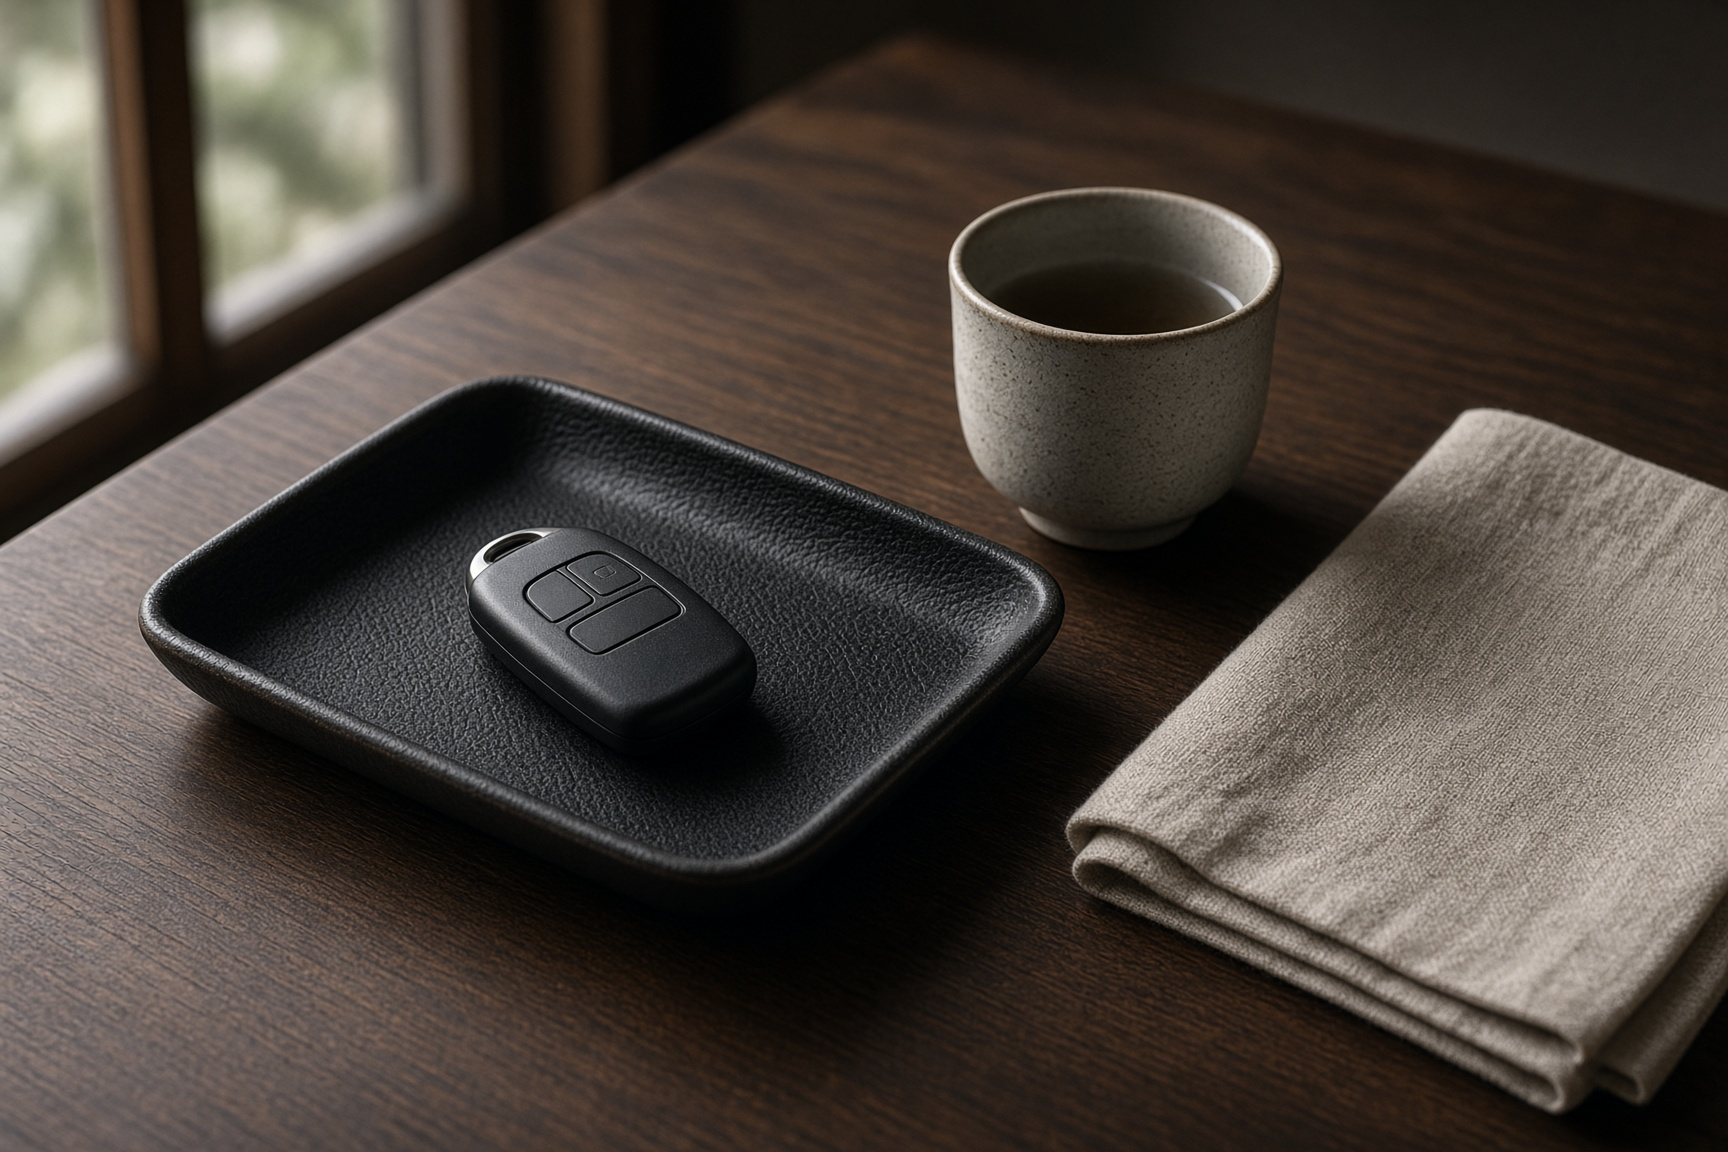
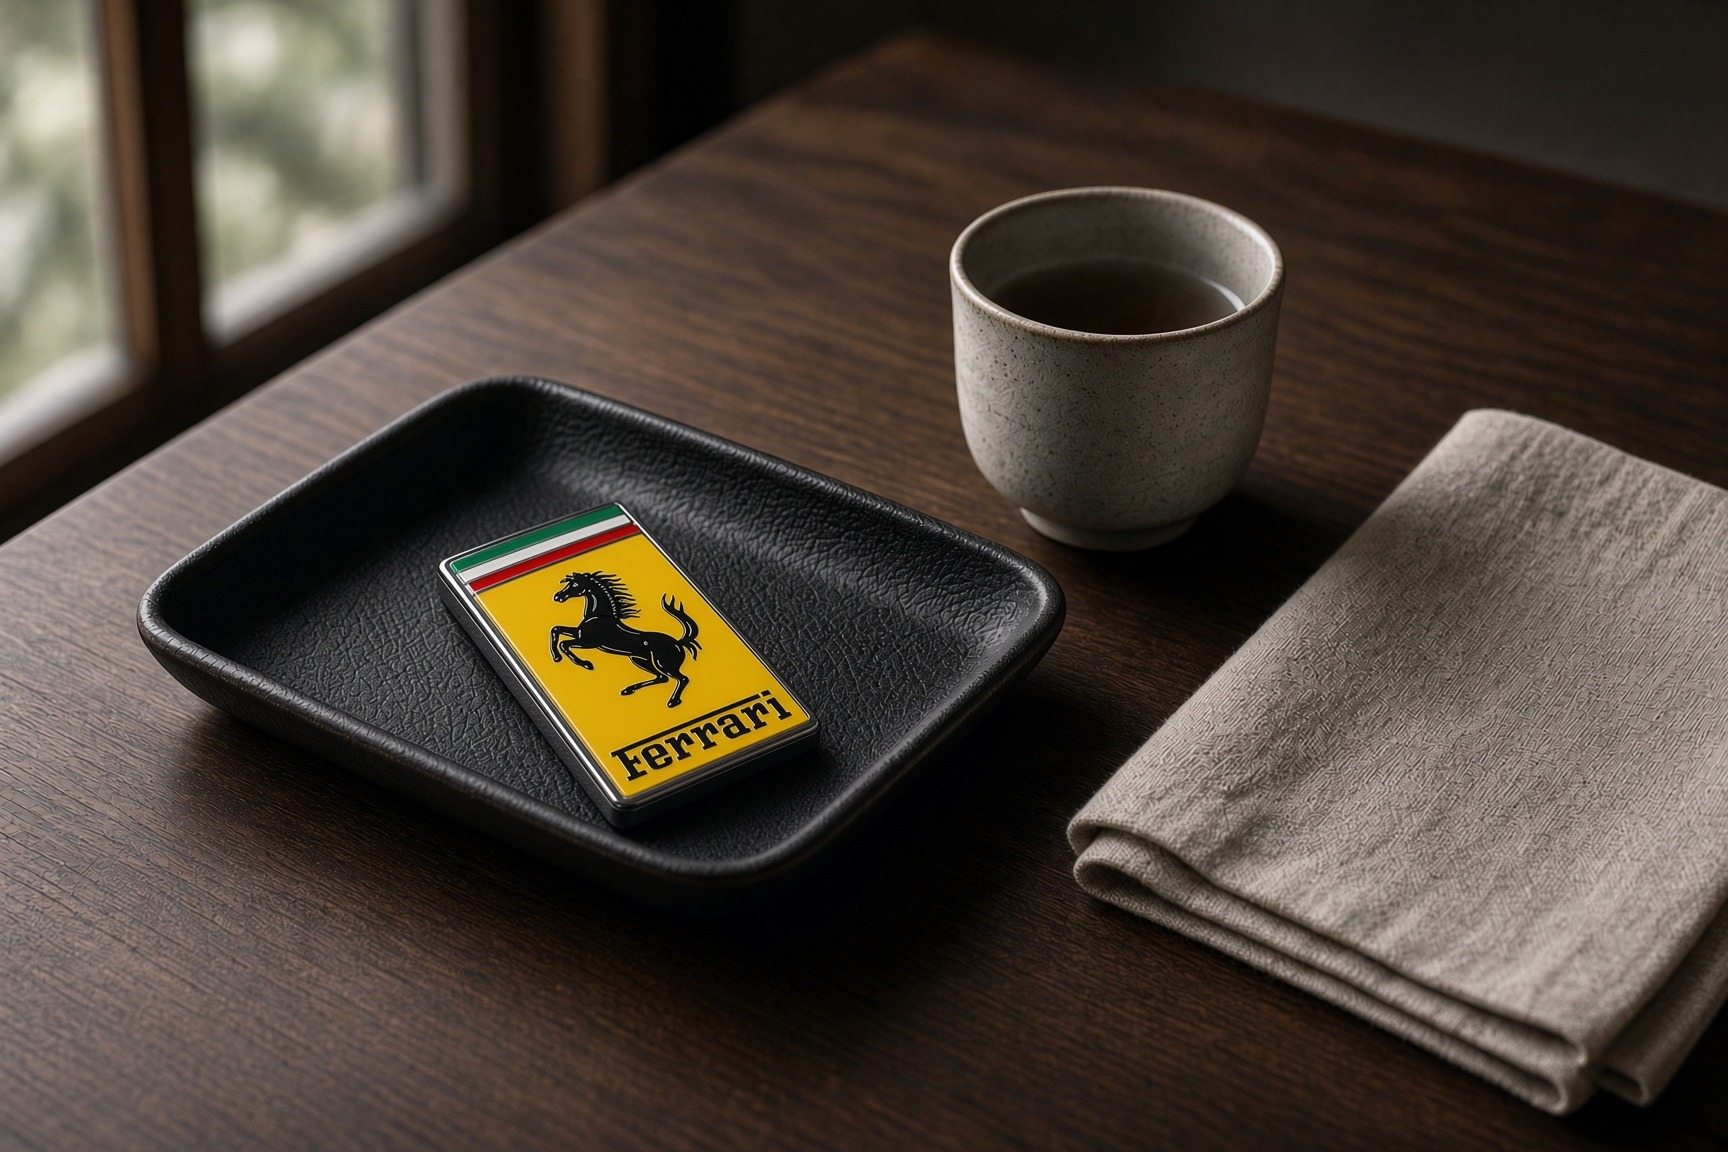
Use real Lamborghini and Ferrari photos on collection, owners, and safety
Replace the generic wheel with a Revuelto center-cap, the still-life key with a Ferrari smart key, and the covered garage car with a Revuelto. No license plates.

diff --git a/src/routes/safety.tsx b/src/routes/safety.tsx
@@ -28,7 +28,7 @@ function Page() {
       />
       <div className="mx-auto max-w-6xl px-5">
         <div className="overflow-hidden rounded-xl">
-          <Photo src="/images/wheel.jpg" alt="濡れた路面に映るホイール" className="aspect-[16/9]" />
+          <Photo src="/images/wheel.jpg" alt="ランボルギーニ・レヴエルトのホイールとエンブレム" className="aspect-[16/9]" />
         </div>
       </div>
       <Section>

diff --git a/src/routes/collection.tsx b/src/routes/collection.tsx
@@ -39,7 +39,7 @@ function Page() {
       />
       <div className="mx-auto max-w-6xl px-5">
         <div className="overflow-hidden rounded-xl">
-          <Photo src="/images/garage.jpg" alt="静かなガレージの光" className="aspect-[16/8]" />
+          <Photo src="/images/garage.jpg" alt="屋内に置かれたランボルギーニ・レヴエルト" className="aspect-[16/8]" />
         </div>
       </div>
       <Section>

diff --git a/src/routes/owners.tsx b/src/routes/owners.tsx
@@ -32,7 +32,7 @@ function Page() {
       />
       <div className="mx-auto max-w-6xl px-5">
         <div className="overflow-hidden rounded-xl">
-          <Photo src="/images/keys.jpg" alt="ロゴのないキーと茶器" className="aspect-[16/8]" />
+          <Photo src="/images/keys.jpg" alt="トレイに置いたフェラーリのスマートキー" className="aspect-[16/8]" />
         </div>
       </div>
       <Section>
